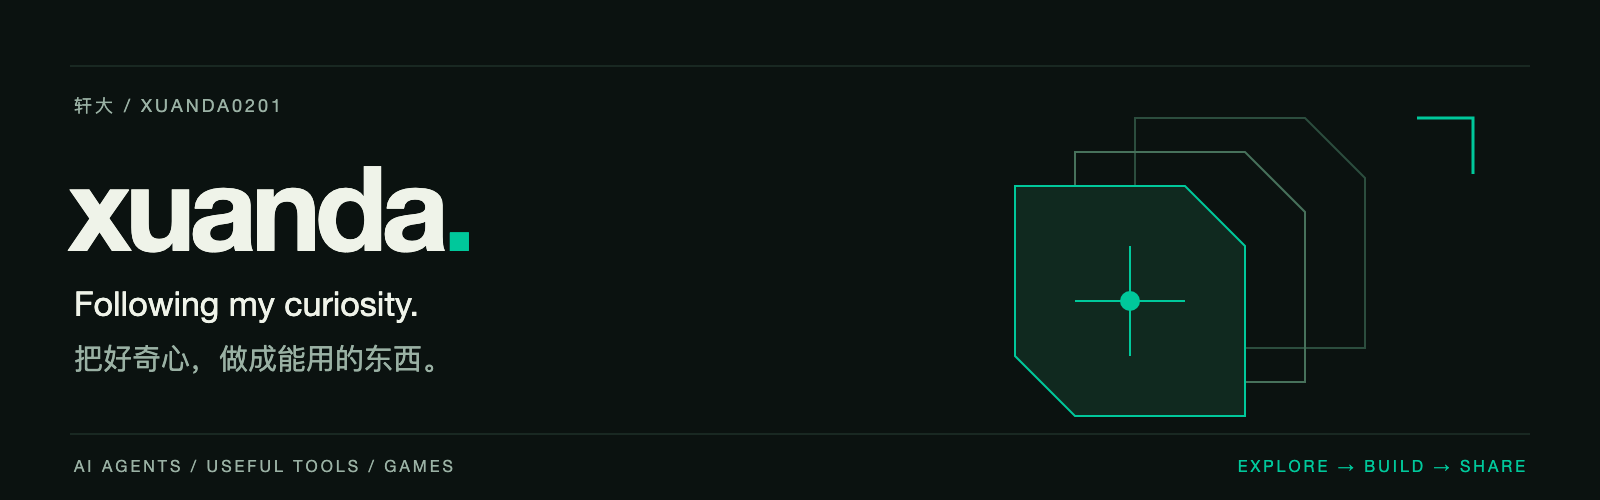
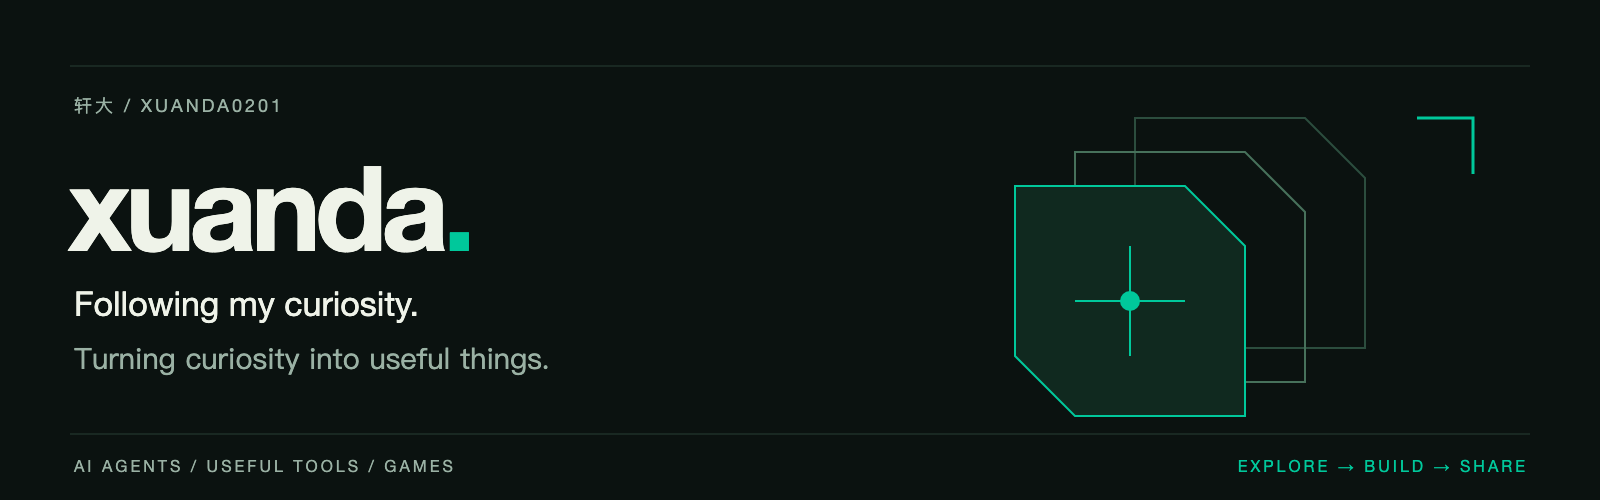
docs: default profile to English with Chinese translation

Changed region(s): [[0.0312, 0.69, 0.3438, 0.75]]

diff --git a/README.md b/README.md
@@ -1,64 +1,64 @@
+<p align="center"><strong>English</strong> · <a href="https://github.com/xuanda0201/xuanda0201/blob/main/README.zh-CN.md">简体中文</a></p>
+
 <p align="center">
-  <img src="https://raw.githubusercontent.com/xuanda0201/xuanda0201/main/assets/header.png" alt="轩大 · xuanda — Following my curiosity. 把好奇心，做成能用的东西。" width="100%" />
+  <img src="https://raw.githubusercontent.com/xuanda0201/xuanda0201/main/assets/header.png" alt="xuanda — Following my curiosity. Turning curiosity into useful things." width="100%" />
 </p>
 
 <p align="center">
   <a href="https://github.com/hutian-ai"><strong>hutian</strong></a> ·
   <a href="https://github.com/hutian-ai/harness-dock">Harness Dock</a> ·
-  <a href="https://github.com/xuanda0201/civ6-mods">文明 6 Mods</a>
+  <a href="https://github.com/xuanda0201/civ6-mods">Civilization VI Mods</a>
 </p>
 
-### 你好，我是轩大 👋
+### Hi, I'm xuanda 👋
 
-关注 **AI Agent、人与 AI 的协作，以及游戏里的自动化**。喜欢从自己的实际需求出发，把一个想法做成能运行、能体验、能继续改进的小作品。
+I build around **AI agents, human–AI collaboration, and automation in games**. I like starting with something I need and turning it into a small project I can run, use, and keep improving.
 
-正在 [@hutian-ai](https://github.com/hutian-ai) 构建工具与产品，探索让 AI 角色参与真实项目，并留下可继续使用的资料、经验与成果。
+At [@hutian-ai](https://github.com/hutian-ai), I'm exploring how persistent AI roles can contribute to real projects and build on the knowledge, experience, and work they leave behind.
 
-*I follow my curiosity by building useful tools — for AI agents, human-directed collaboration, and games.*
-
-### 最近在做
+### What I'm building
 
 <table>
 <tr>
 <td width="50%" valign="top">
 
-#### 界舟 · Harness Dock
+#### Jiezhou · Harness Dock
 
-让原生 Harness，为你的产品执行任务。
+Let native agent harnesses run tasks for your product.
 
-连接获授权的设备，复用已有的原生环境，接回进度、审批与产物。
+Connect authorized devices, reuse their native environments, and receive progress, approvals, and artifacts.
 
 `TypeScript` · `SDK` · `Self-hosted`
 
-**已公开 · Developer Alpha**
+**Public · Developer Alpha**
 
-[源码 →](https://github.com/hutian-ai/harness-dock)　[文档 →](https://hutian-ai.github.io/harness-dock/)
+[Source →](https://github.com/hutian-ai/harness-dock)　[Docs →](https://hutian-ai.github.io/harness-dock/)
 
 </td>
 <td width="50%" valign="top">
 
-#### 文明 6 · Mods
+#### Civilization VI · Mods
 
-把重复操作交给工具，把注意力留给决策。
+Automate the repetition. Keep the decisions.
 
-城市项目续建、间谍循环、建造者作业、巨作整理和沿途铁路等小工具。
+Small tools for recurring city projects, spy missions, builder work, Great Works organization, and rail construction.
 
 `Lua` · `Civilization VI` · `Automation`
 
-**已公开 · 预览版，待实机验证**
+**Public · Preview, awaiting in-game validation**
 
-[源码与下载 →](https://github.com/xuanda0201/civ6-mods)　[安装说明 →](https://github.com/xuanda0201/civ6-mods/blob/main/INSTALL.md)
+[Source & downloads →](https://github.com/xuanda0201/civ6-mods)　[Installation →](https://github.com/xuanda0201/civ6-mods/blob/main/INSTALL.md)
 
 </td>
 </tr>
 </table>
 
-### 继续探索
+### Exploring what's next
 
-**hutian** 是正在推进的长期方向：一个让持续角色与人共同工作的世界。Web 工作台还在本地开发中，当前可体验的公开成果从 Harness Dock 开始。
+**hutian** is the longer-term direction: a shared world where people work with persistent AI roles. The Web workspace is in local development; Harness Dock is the public starting point you can try today.
 
-我更愿意让项目在真实使用中逐步长大：先解决一个具体问题，留下能用的成果，再继续下一步。也欢迎带着实际使用场景，在 [Harness Dock](https://github.com/hutian-ai/harness-dock/issues) 或 [文明 6 Mods](https://github.com/xuanda0201/civ6-mods/issues) 中交流。
+I like growing projects through real use: solve a concrete problem, ship something useful, then take the next step. If you have a use case or feedback, join the conversation in [Harness Dock](https://github.com/hutian-ai/harness-dock/issues) or [Civilization VI Mods](https://github.com/xuanda0201/civ6-mods/issues).
 
 ---
 
-<p align="center"><sub>好奇 → 动手 → 用起来 → 再改进</sub></p>
+<p align="center"><sub>Explore → Build → Use → Improve</sub></p>

diff --git a/README.zh-CN.md b/README.zh-CN.md
@@ -1,0 +1,66 @@
+<p align="center"><a href="https://github.com/xuanda0201">English</a> · <strong>简体中文</strong></p>
+
+<p align="center">
+  <img src="https://raw.githubusercontent.com/xuanda0201/xuanda0201/main/assets/header.zh-CN.png" alt="轩大 · xuanda — Following my curiosity. 把好奇心，做成能用的东西。" width="100%" />
+</p>
+
+<p align="center">
+  <a href="https://github.com/hutian-ai"><strong>hutian</strong></a> ·
+  <a href="https://github.com/hutian-ai/harness-dock">Harness Dock</a> ·
+  <a href="https://github.com/xuanda0201/civ6-mods">文明 6 Mods</a>
+</p>
+
+### 你好，我是轩大 👋
+
+关注 **AI Agent、人与 AI 的协作，以及游戏里的自动化**。喜欢从自己的实际需求出发，把一个想法做成能运行、能体验、能继续改进的小作品。
+
+正在 [@hutian-ai](https://github.com/hutian-ai) 构建工具与产品，探索让 AI 角色参与真实项目，并留下可继续使用的资料、经验与成果。
+
+*I follow my curiosity by building useful tools — for AI agents, human-directed collaboration, and games.*
+
+### 最近在做
+
+<table>
+<tr>
+<td width="50%" valign="top">
+
+#### 界舟 · Harness Dock
+
+让原生 Harness，为你的产品执行任务。
+
+连接获授权的设备，复用已有的原生环境，接回进度、审批与产物。
+
+`TypeScript` · `SDK` · `Self-hosted`
+
+**已公开 · Developer Alpha**
+
+[源码 →](https://github.com/hutian-ai/harness-dock)　[文档 →](https://hutian-ai.github.io/harness-dock/)
+
+</td>
+<td width="50%" valign="top">
+
+#### 文明 6 · Mods
+
+把重复操作交给工具，把注意力留给决策。
+
+城市项目续建、间谍循环、建造者作业、巨作整理和沿途铁路等小工具。
+
+`Lua` · `Civilization VI` · `Automation`
+
+**已公开 · 预览版，待实机验证**
+
+[源码与下载 →](https://github.com/xuanda0201/civ6-mods)　[安装说明 →](https://github.com/xuanda0201/civ6-mods/blob/main/INSTALL.md)
+
+</td>
+</tr>
+</table>
+
+### 继续探索
+
+**hutian** 是正在推进的长期方向：一个让持续角色与人共同工作的世界。Web 工作台还在本地开发中，当前可体验的公开成果从 Harness Dock 开始。
+
+我更愿意让项目在真实使用中逐步长大：先解决一个具体问题，留下能用的成果，再继续下一步。也欢迎带着实际使用场景，在 [Harness Dock](https://github.com/hutian-ai/harness-dock/issues) 或 [文明 6 Mods](https://github.com/xuanda0201/civ6-mods/issues) 中交流。
+
+---
+
+<p align="center"><sub>好奇 → 动手 → 用起来 → 再改进</sub></p>
